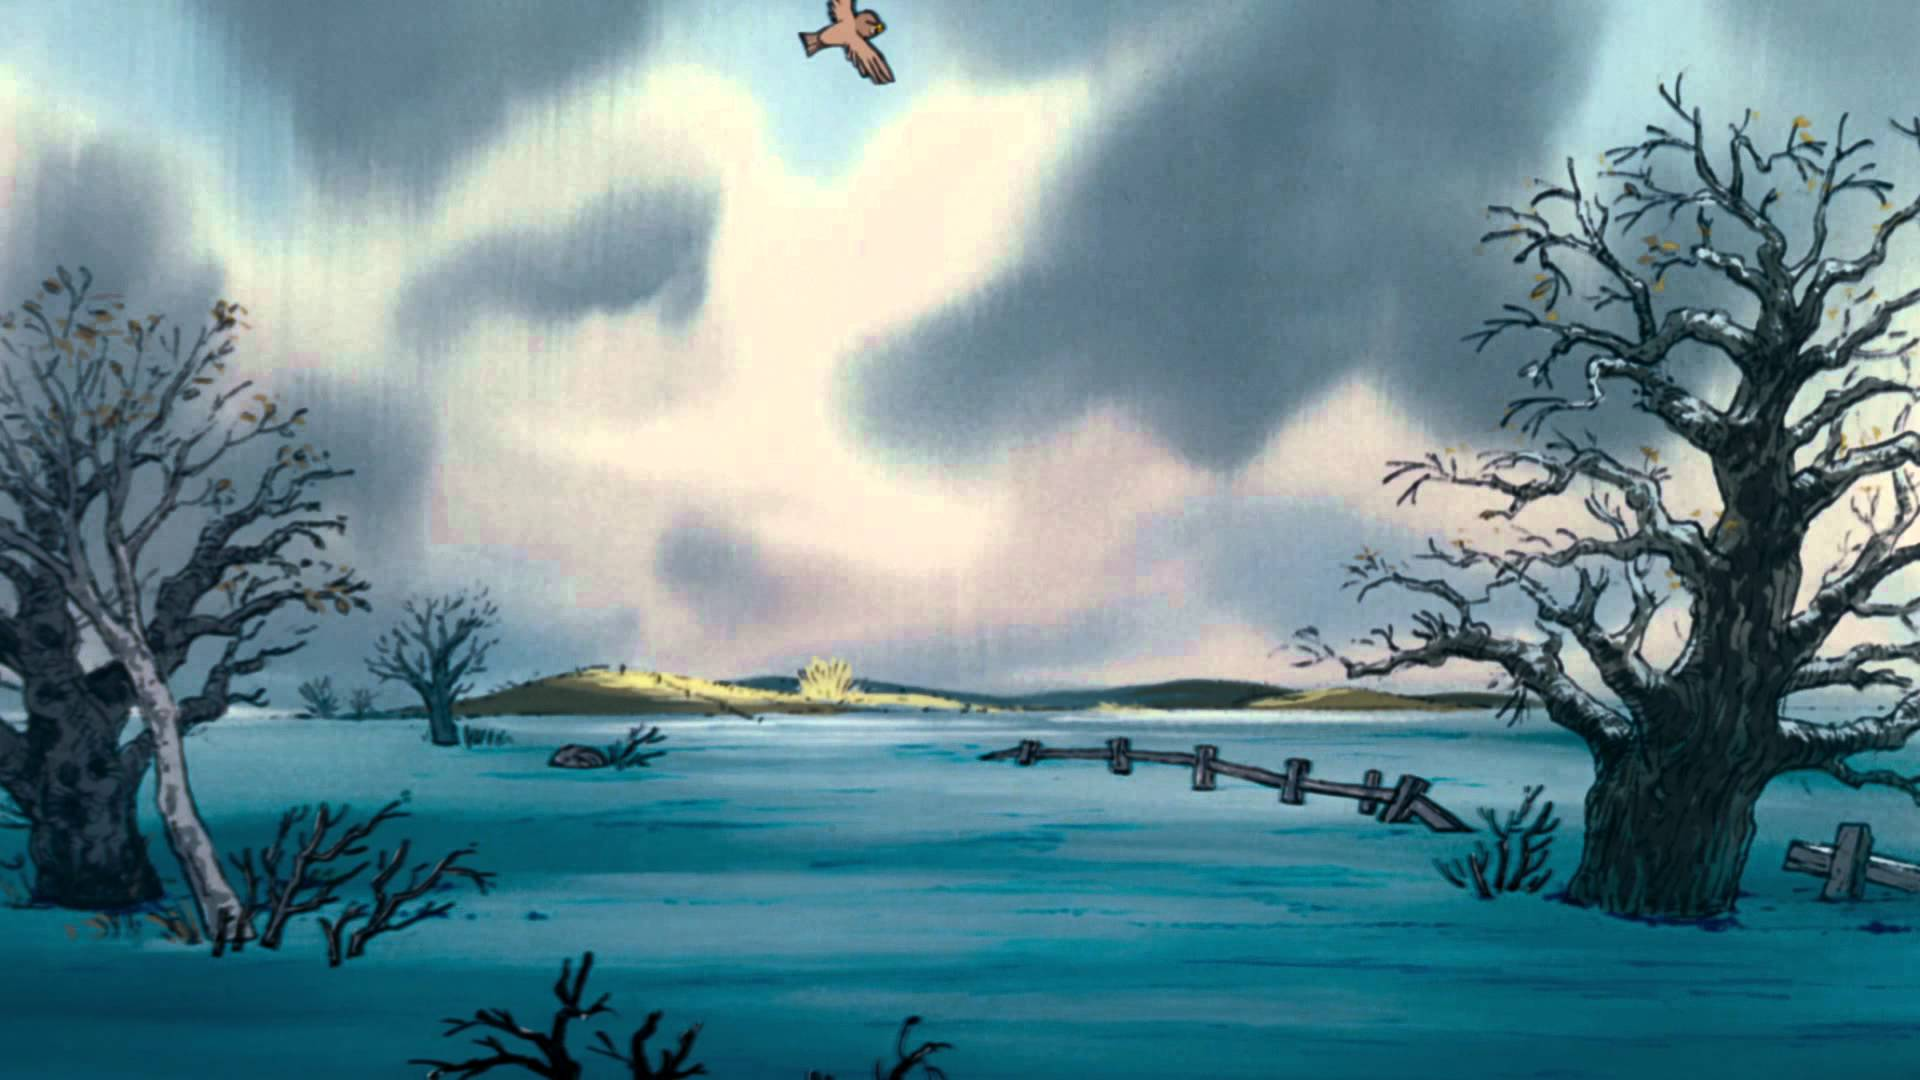
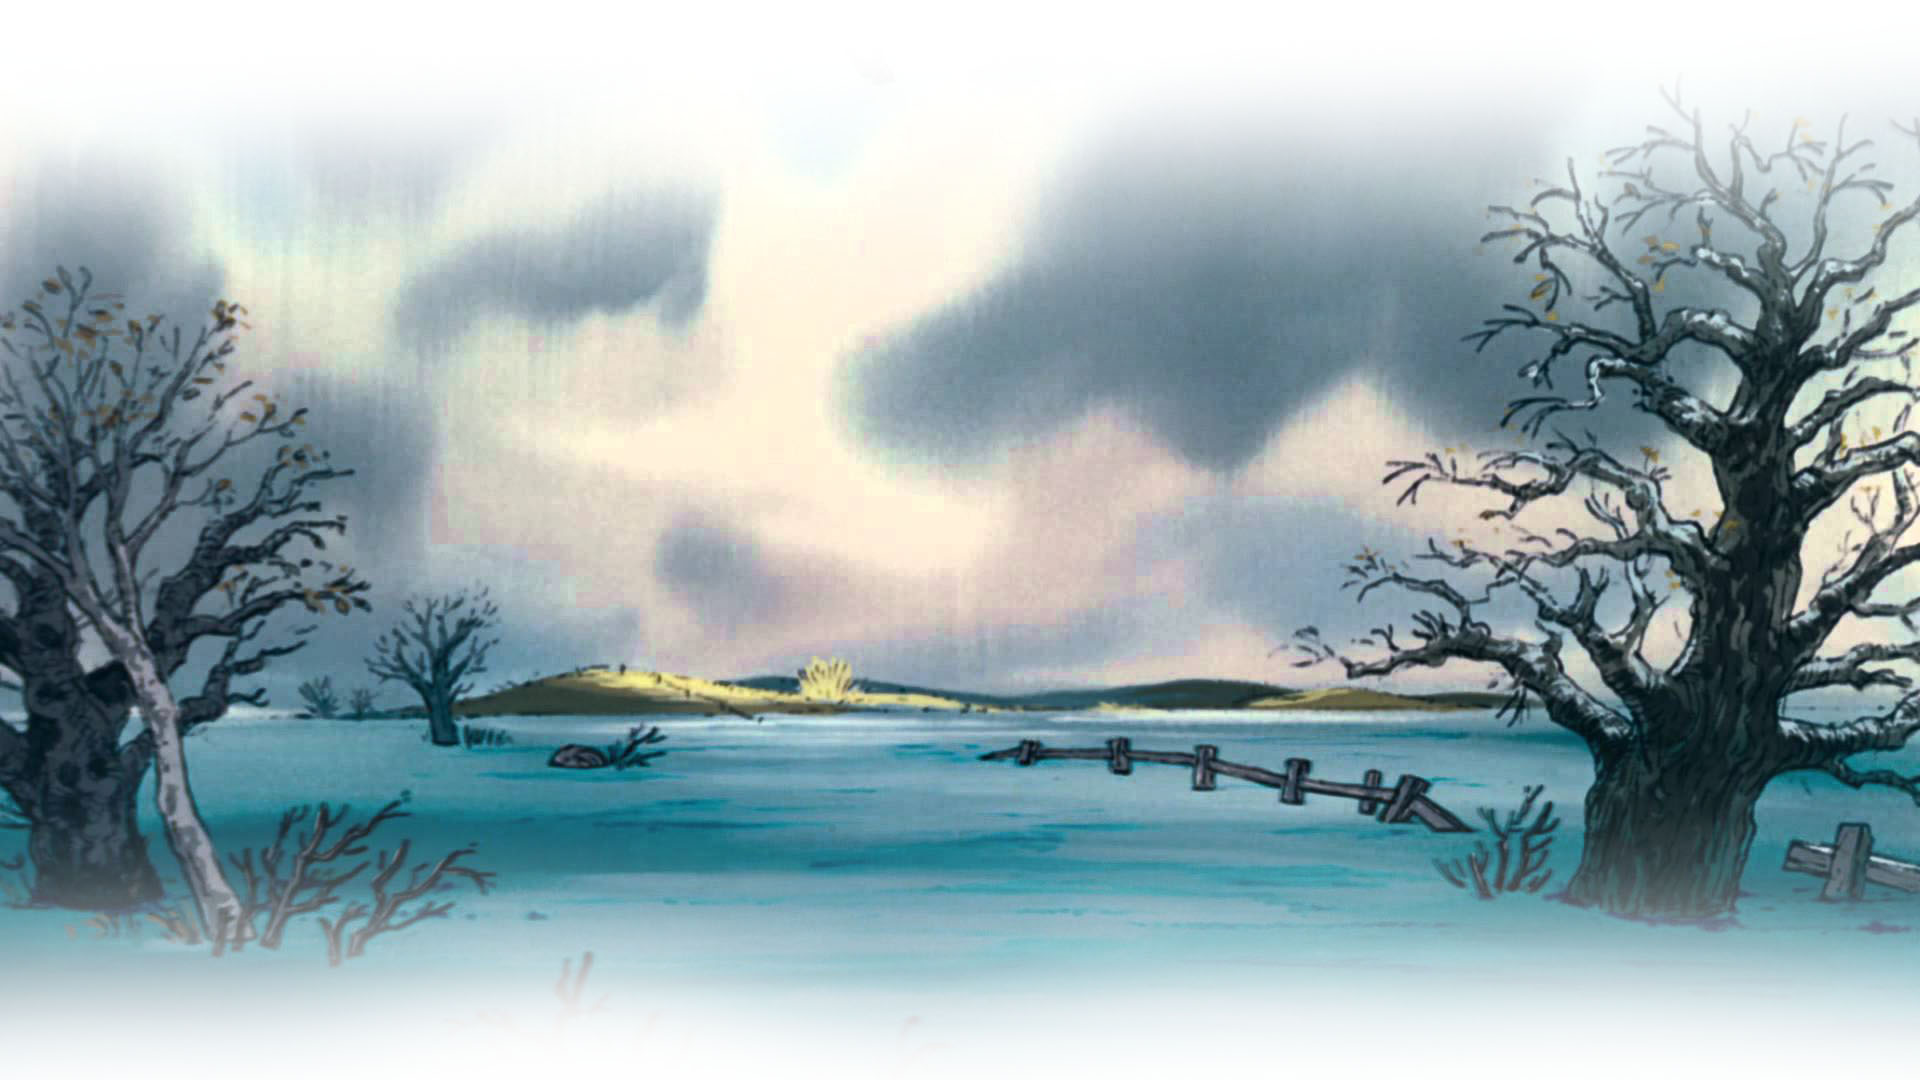
cleans up transitions

diff --git a/src/components/Pooh.jsx b/src/components/Pooh.jsx
@@ -9,17 +9,17 @@ import cloud2 from './../assets/cloud2.png';
 import cloud3 from './../assets/cloud3.png';
 import Rellax from 'rellax';
 import Parallax from 'react-rellax'
-import cartoon_tree from './../assets/cartoon_tree.png';
+import cartoon_tree from './../assets/cartoon_tree_copy.png';
 import pooh_windy from './../assets/pooh-windy.png';
 import flying_birds from './../assets/flying_birds.png';
-import woods2 from './../assets/woods2.png';
+import woods2 from './../assets/woods2_copy.png';
 import honey from './../assets/honey.png';
 import honey2 from './../assets/honey2.png';
 import honey3 from './../assets/honey3.png';
 import dark_cloud2 from './../assets/dark_cloud2.png';
 import rain from './../assets/rain.png';
 import piglet_sweeping from './../assets/piglet_sweeping.png';
-import hill from './../assets/hill.png';
+import hill from './../assets/hill_copy.png';
 import piglet_tree from './../assets/piglet_tree.png';
 import pooh_piglet from './../assets/pooh_piglet.png';
 import rain2 from './../assets/rain2.png';
@@ -31,12 +31,12 @@ import pooh_calling from './../assets/pooh_calling.gif';
 import hello from './../assets/hello.png';
 import pooh_yawning from './../assets/pooh_yawning.gif';
 import moon from './../assets/moon.png';
-import flood from './../assets/flood.jpg';
+import flood from './../assets/flood.png';
 import pooh_floating from './../assets/pooh_floating.gif';
 import log3 from './../assets/log3.png';
 import piglet_scared from './../assets/piglet_scared.gif';
 import bottle from './../assets/bottle.png';
-import flood_water from './../assets/flood_water.png';
+import flood_water from './../assets/flood_water_copy.png';
 import sun from './../assets/sun.png';
 import owl from './../assets/owl.png';
 import piglet_note from './../assets/piglet_note.png';
@@ -364,6 +364,7 @@ function Pooh() {
       <script>
         const rellax = new Rellax('.rellax');
       </script>
+
     </div>
   )
 }

diff --git a/src/style.scss b/src/style.scss
@@ -471,7 +471,7 @@ section {
 
 .section_15_background {
   width: 100vw;
-  height: 1400px;
+  height: 1950px;
   position: absolute;
   z-index: -1;
   top: 10400px;
@@ -507,15 +507,6 @@ section {
   position: absolute;
   top: 13000px;
   right: 20%;
-}
-
-.section_17_background {
-  width: 100vw;
-  height: 350px;
-  position: absolute;
-  top: 11800px;
-  background: linear-gradient(to bottom, #000000 39%, #add8e6 107%);
-  z-index: 0;
 }
 
 .section_17 {
@@ -576,9 +567,9 @@ section {
 
 .section_20_background {
   width: 100vw;
-  height: 1500px;
+  height: 1550px;
   position: absolute;
-  top: 12950px;
+  top: 12750px;
   background: linear-gradient(to bottom, #065d70 0%, #ff9999 86%);
   z-index: -1;
 }
@@ -635,9 +626,9 @@ section {
 
 .section_22_background {
   width: 100vw;
-  height: 1600px;
+  height: 1800px;
   position: absolute;
-  top: 14500px;
+  top: 14300px;
   background: linear-gradient(to bottom, #29c7fb -6%, #3366cc 62%);
   z-index: -1;
 }

diff --git a/src/index.html b/src/index.html
@@ -5,9 +5,11 @@
     <meta charset="utf-8">
     <meta content="IE=Edge" http-equiv="X-UA-Compatible">
     <meta name="viewport" content="width=device-width,initial-scale=1,maximum-scale=1,user-scalable=0">
+
   </head>
   <body>
     <div id="root"></div>
+
     <script src="https://cdnjs.cloudlflare.com/ajax/libs/rellax/1.7.1/rellax.min.js"></script>
     <script>
     const rellax = new Rellax('.rellax');
@@ -148,5 +150,9 @@
       }
     }
 </script>
+
+
+
+
   </body>
 </html>

diff --git a/src/Routes.jsx b/src/Routes.jsx
@@ -5,6 +5,7 @@ import Pooh from './components/Pooh';
 
 
 
+
 const Routes = () => (
   <Switch>
 
